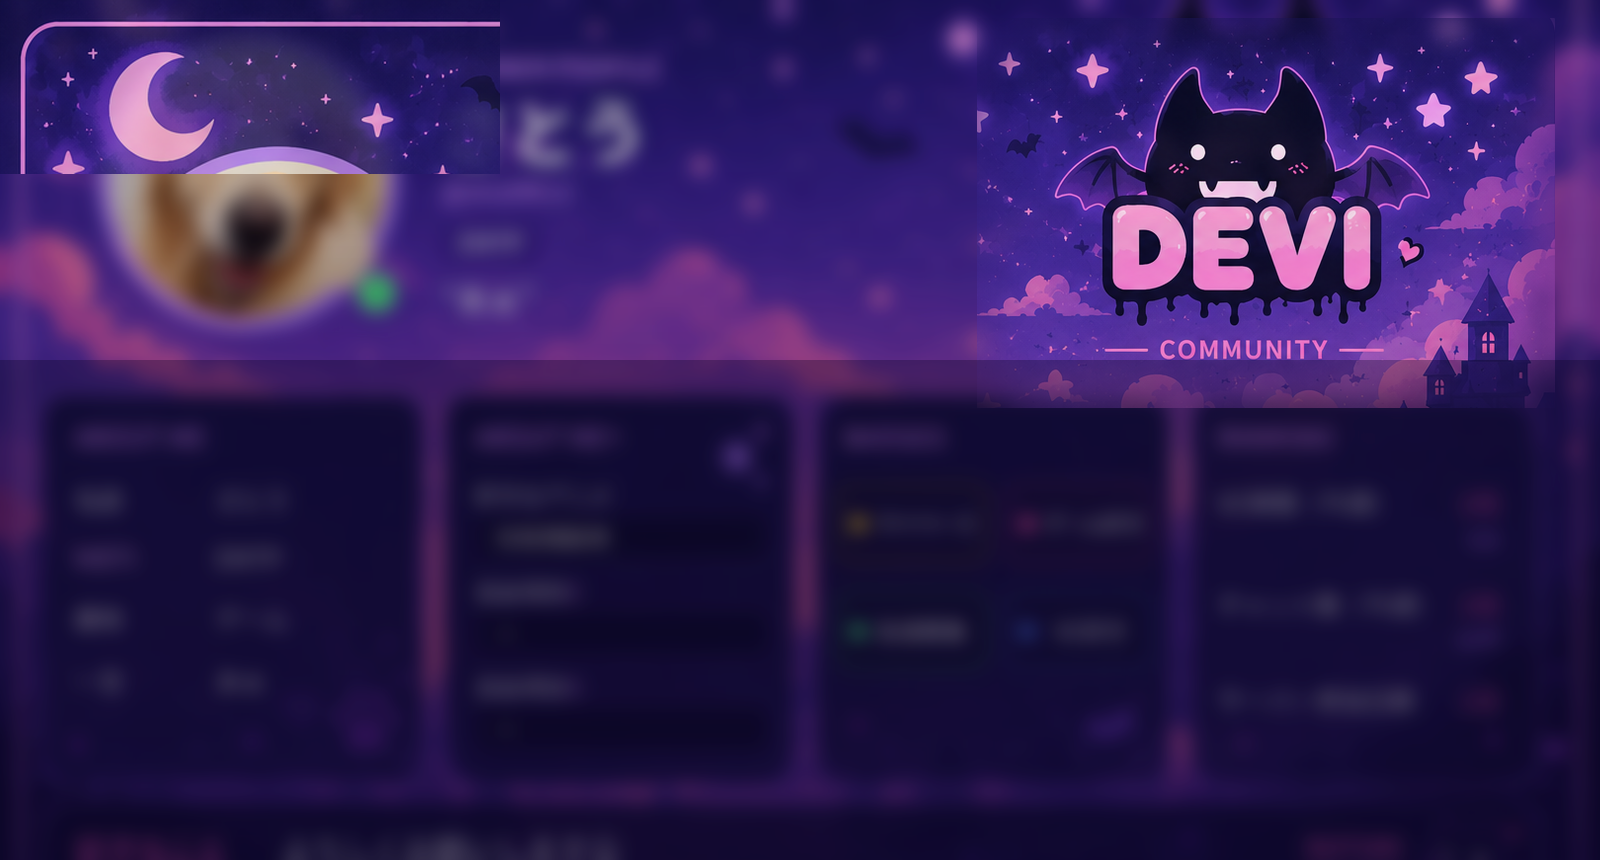
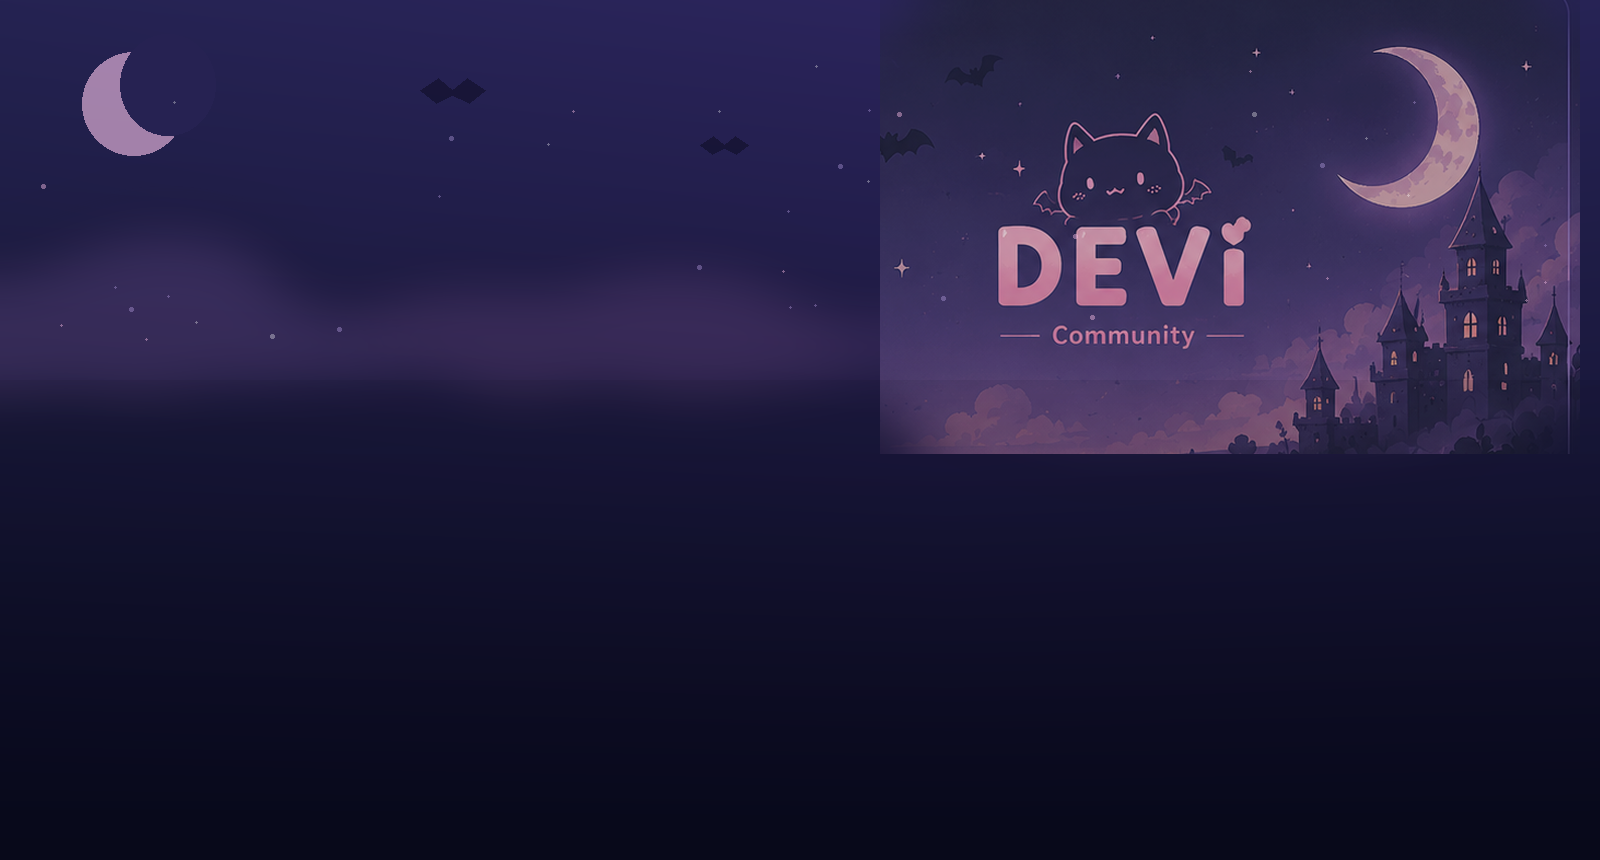
refine devi profile UI

diff --git a/cogs/member_onboarding.py b/cogs/member_onboarding.py
@@ -709,214 +709,147 @@ def _draw_centered_text(draw, box, text, font, fill):
 
 
 async def build_profile_card_file(member, p):
-    """BOTORI用の横長プロフィール画像カードを生成する。"""
-    import random
+    """DEVIの落ち着いた可愛い横長プロフィールカードを生成する。"""
     import re
     from datetime import datetime, timezone
 
     width, height = 1600, 860
-    img = Image.new('RGB', (width, height), '#050b16')
-    draw = ImageDraw.Draw(img)
-
-    # 配色・背景（テーマごとに完全に異なる専用アートを使用）
-    raw_theme_key = (p.get('profile_theme') or 'city').strip()
+    raw_theme_key = (p.get('profile_theme') or 'devi').strip()
     theme_key = THEME_ALIASES.get(raw_theme_key, raw_theme_key)
-    theme = PROFILE_THEMES.get(theme_key, PROFILE_THEMES['city'])
+    theme = PROFILE_THEMES.get(theme_key, PROFILE_THEMES['devi'])
     accent = theme['accent']
-    accent_soft = tuple(max(0, int(c * 0.58)) for c in accent)
-    text_main = (241, 246, 255)
-    text_sub = (159, 180, 216)
-    panel_fill = theme['panel']
-    panel_alt = theme['alt']
+    text_main = (244, 246, 255)
+    text_sub = (178, 187, 220)
     line = theme['line']
 
-    background_path = os.path.join(
-        os.path.dirname(os.path.dirname(__file__)),
-        'assets', 'profile', 'backgrounds', f'{theme_key}.png'
-    )
+    background_path = os.path.join(os.path.dirname(os.path.dirname(__file__)), 'assets', 'profile', 'backgrounds', f'{theme_key}.png')
     try:
         background_src = Image.open(background_path).convert('RGB')
-        background = ImageOps.fit(background_src, (width, height), method=Image.Resampling.LANCZOS, centering=(0.5, 0.48))
-        img.paste(background, (0, 0))
+        img = ImageOps.fit(background_src, (width, height), method=Image.Resampling.LANCZOS, centering=(0.5, 0.5))
     except Exception:
-        # アセット破損時もプロフィール生成自体は止めない
-        for y in range(height):
-            t = y / max(1, height - 1)
-            color = tuple(int(panel_alt[i] * (1 - t) + panel_fill[i] * t) for i in range(3))
-            draw.line((0, y, width, y), fill=color)
+        img = Image.new('RGB', (width, height), '#11132d')
+    draw = ImageDraw.Draw(img)
 
-    # 読みやすさを保つガラス風レイヤー。背景アートは右上・周辺に見える。
+    # ガラスUI。背景を見せるため、一枚の黒板ではなく各カードを独立させる。
     overlay = Image.new('RGBA', (width, height), (0, 0, 0, 0))
     od = ImageDraw.Draw(overlay)
-    od.rounded_rectangle((28, 28, width-28, height-28), radius=34, fill=(2, 7, 18, 28), outline=(*accent, 235), width=3)
-    header_box = (48, 48, width-48, 352)
-    content_box = (48, 370, width-48, 720)
-    footer_box = (48, 735, width-48, 812)
-    od.rounded_rectangle(header_box, radius=26, fill=(*panel_alt, 176), outline=(*line, 220), width=2)
-    od.rounded_rectangle(content_box, radius=24, fill=(*panel_fill, 208), outline=(*line, 235), width=2)
-    od.rounded_rectangle(footer_box, radius=20, fill=(*panel_fill, 214), outline=(*line, 235), width=2)
-    # ヘッダー左側だけ少し暗くし、右側の背景アートを強く残す
-    od.rounded_rectangle((48, 48, 690, 352), radius=26, fill=(0, 4, 12, 78))
+    od.rounded_rectangle((24, 24, width-24, height-24), radius=34, fill=(7, 7, 24, 16), outline=(*accent, 210), width=2)
+    # ヘッダーは左情報部のみ少し濃く、ロゴ側はほぼ背景をそのまま見せる
+    od.rounded_rectangle((42, 45, width-42, 350), radius=28, fill=(9, 8, 29, 45), outline=(*line, 150), width=1)
+    od.rounded_rectangle((42, 45, 700, 350), radius=28, fill=(8, 8, 27, 122))
+    # 4枚の独立カード
+    panels=[(44,374,398,716),(416,374,770,716),(788,374,1142,716),(1160,374,1556,716)]
+    for box in panels:
+        od.rounded_rectangle(box, radius=22, fill=(10, 10, 30, 184), outline=(*line, 195), width=2)
+        # 上辺にほのかな反射
+        od.line((box[0]+24,box[1]+2,box[2]-24,box[1]+2),fill=(255,220,250,48),width=2)
+    od.rounded_rectangle((44,734,1556,816), radius=20, fill=(10, 10, 30, 192), outline=(*line, 190), width=2)
     img = Image.alpha_composite(img.convert('RGBA'), overlay).convert('RGB')
     draw = ImageDraw.Draw(img)
-    # フォント
-    tiny = _find_japanese_font(19)
-    small = _find_japanese_font(23)
-    small_b = _find_japanese_font(23, bold=True)
-    medium = _find_japanese_font(29)
-    medium_b = _find_japanese_font(29, bold=True)
+
+    tiny = _find_japanese_font(18)
+    small = _find_japanese_font(22)
+    small_b = _find_japanese_font(22, bold=True)
     section = _find_japanese_font(25, bold=True)
     name = (p.get('nickname') or member.display_name).strip()
-    name_font = _fit_text(draw, name, 610, 70, 40, bold=True)
+    name_font = _fit_text(draw, name, 520, 68, 40, bold=True)
 
     # アバター
-    avatar_box = (70, 72, 356, 358)
     try:
         avatar_bytes = await member.display_avatar.with_size(512).read()
         avatar = Image.open(io.BytesIO(avatar_bytes)).convert('RGB')
-        avatar = ImageOps.fit(avatar, (260, 260), method=Image.Resampling.LANCZOS)
-        mask = Image.new('L', (260, 260), 0)
-        ImageDraw.Draw(mask).ellipse((0, 0, 259, 259), fill=255)
-        ring_mask = Image.new('L', (286, 286), 0)
-        ImageDraw.Draw(ring_mask).ellipse((0, 0, 285, 285), fill=255)
-        ring = Image.new('RGB', (286, 286), accent)
-        img.paste(ring, (70, 72), ring_mask)
-        img.paste(avatar, (83, 85), mask)
-        draw.ellipse((315, 300, 352, 337), fill=(35, 210, 115), outline=panel_alt, width=5)
+        avatar = ImageOps.fit(avatar, (246, 246), method=Image.Resampling.LANCZOS)
+        mask = Image.new('L', (246, 246), 0); ImageDraw.Draw(mask).ellipse((0,0,245,245),fill=255)
+        ring_mask = Image.new('L',(270,270),0); ImageDraw.Draw(ring_mask).ellipse((0,0,269,269),fill=255)
+        ring = Image.new('RGB',(270,270),(177,142,230))
+        img.paste(ring,(70,70),ring_mask); img.paste(avatar,(82,82),mask)
+        draw.ellipse((307,294,344,331),fill=(66,204,128),outline=(21,17,48),width=5)
     except Exception:
-        draw.ellipse(avatar_box, fill=accent)
-        draw.ellipse((83, 85, 343, 345), fill=(27, 39, 61))
+        draw.ellipse((70,70,340,340),fill=(177,142,230)); draw.ellipse((82,82,328,328),fill=(32,34,71))
 
-    # ヘッダー文字（anchorで縦位置を統一）
-    draw.text((405, 92), 'MEMBER PROFILE', font=small_b, fill=(81, 148, 255), anchor='lm')
-    draw.text((405, 155), name, font=name_font, fill=text_main, anchor='lm')
-    draw.text((410, 208), f'@{member.name}', font=small, fill=(139, 158, 190), anchor='lm')
+    # 左上プロフィール情報。MEMBER PROFILEは控えめ、名前を主役にする。
+    draw.text((390,103),'MEMBER PROFILE',font=small_b,fill=(189,153,231),anchor='lm')
+    draw.text((390,167),name,font=name_font,fill=text_main,anchor='lm')
+    draw.text((393,218),f'@{member.name}',font=small,fill=(157,151,190),anchor='lm')
+    mbti=(p.get('mbti') or '').strip(); badge_text=mbti or '未設定'
+    badge_w=draw.textbbox((0,0),badge_text,font=small_b)[2]+34; badge_box=(393,238,393+badge_w,281)
+    draw.rounded_rectangle(badge_box,radius=12,fill=(55,38,105),outline=(139,104,214),width=2)
+    _draw_centered_text(draw,badge_box,badge_text,small_b,(237,229,255))
+    comment=(p.get('comment') or '').strip(); quote=(comment or '一言はまだ登録されていません').replace('☆','★').replace('✩','★')
+    quote_font=_fit_text(draw,quote,510,30,20)
+    draw.text((390,317),f'“ {quote} ”',font=quote_font,fill=(231,226,244),anchor='lm')
 
-    mbti = (p.get('mbti') or '').strip()
-    badge_text = mbti or '未設定'
-    badge_font = small_b
-    badge_w = draw.textbbox((0, 0), badge_text, font=badge_font)[2] + 34
-    badge_box = (410, 229, 410 + badge_w, 275)
-    draw.rounded_rectangle(badge_box, radius=12, fill=(43, 31, 100), outline=(104, 78, 220), width=2)
-    _draw_centered_text(draw, badge_box, badge_text, badge_font, (226, 220, 255))
+    # セクション見出し
+    panel_x=[70,442,814,1186]
+    titles=['ABOUT ME','ABOUT ME+','BADGES','RANKING']
+    for x,title in zip(panel_x,titles):
+        draw.text((x,414),title,font=section,fill=(196,150,232),anchor='lm')
+        draw.line((x,443,x+150,443),fill=(135,96,170),width=1)
 
-    comment = (p.get('comment') or '').strip()
-    quote = comment or '一言はまだ登録されていません'
-    quote_font = _fit_text(draw, quote, 790, 31, 21)
-    draw.text((405, 315), f'“ {quote} ”', font=quote_font, fill=(224, 232, 246), anchor='lm')
+    hobby=(p.get('hobby') or '').strip()
+    about_rows=[('名前',name),('MBTI',mbti or '—'),('趣味',hobby or '—'),('一言',comment or '—')]
+    for (label,value),cy in zip(about_rows,[487,547,607,667]):
+        draw.text((70,cy),label,font=small_b,fill=text_sub,anchor='lm')
+        value=value.replace('☆','★').replace('✩','★')
+        vf=_fit_text(draw,value,205,23,17)
+        while value and draw.textbbox((0,0),value,font=vf)[2]>205: value=value[:-1]
+        draw.text((200,cy),value or '—',font=vf,fill=text_main,anchor='lm')
 
-    # セクション座標
-    col1_x, col2_x, col3_x, col4_x = 78, 545, 905, 1260
-    top_y = 410
-    for x, title in ((col1_x, 'ABOUT ME'), (col2_x, 'ABOUT ME+'), (col3_x, 'BADGES'), (col4_x, 'RANKING')):
-        draw.text((x, top_y), title, font=section, fill=(78, 145, 255), anchor='lm')
-    for x in (515, 875, 1235):
-        draw.line((x, 392, x, 692), fill=line, width=2)
+    # ABOUT ME+
+    py=470
+    for i in (1,2,3):
+        q=(p.get(f'about_q{i}') or '').strip() or f'自由項目{i}'
+        a=(p.get(f'about_a{i}') or '').strip() or '—'
+        qf=_fit_text(draw,q,280,21,16,bold=True); af=_fit_text(draw,a,270,20,15)
+        draw.text((442,py),q,font=qf,fill=text_sub,anchor='la')
+        box=(442,py+29,744,py+72); draw.rounded_rectangle(box,radius=11,fill=(12,15,38),outline=(68,62,108),width=1)
+        while a and draw.textbbox((0,0),a,font=af)[2]>265: a=a[:-1]
+        draw.text((456,py+51),a or '—',font=af,fill=text_main,anchor='lm'); py+=86
 
-    # ABOUT ME：各行を同じ高さに揃える
-    hobby = (p.get('hobby') or '').strip()
-    about_rows = [('名前', name), ('MBTI', mbti or '—'), ('趣味', hobby or '—'), ('一言', comment or '—')]
-    row_centers = [468, 528, 588, 648]
-    for (label, value), cy in zip(about_rows, row_centers):
-        draw.text((col1_x, cy), label, font=small_b, fill=text_sub, anchor='lm')
-        value_font = _fit_text(draw, value, 285, 24, 18)
-        value_display = value
-        while value_display and draw.textbbox((0, 0), value_display, font=value_font)[2] > 285:
-            value_display = value_display[:-1]
-        if value_display != value:
-            value_display = value_display.rstrip() + '…'
-        draw.text((205, cy), value_display, font=value_font, fill=text_main, anchor='lm')
-
-    # ABOUT ME+：本人が自由に設定できる3つの質問と回答
-    plus_rows = []
-    for index in (1, 2, 3):
-        question = (p.get(f'about_q{index}') or '').strip()
-        answer = (p.get(f'about_a{index}') or '').strip()
-        plus_rows.append((question or f'自由項目{index}', answer or '—'))
-    py_plus = 450
-    for question, answer in plus_rows:
-        q_font = _fit_text(draw, question, 285, 22, 17, bold=True)
-        a_font = _fit_text(draw, answer, 285, 21, 16)
-        draw.text((col2_x, py_plus), question, font=q_font, fill=text_sub, anchor='la')
-        box = (col2_x, py_plus + 29, 835, py_plus + 73)
-        draw.rounded_rectangle(box, radius=11, fill=(11, 22, 38), outline=(35, 58, 88), width=2)
-        answer_display = answer
-        while answer_display and draw.textbbox((0,0), answer_display, font=a_font)[2] > 255:
-            answer_display = answer_display[:-1]
-        if answer_display != answer:
-            answer_display = answer_display.rstrip() + '…'
-        draw.text((col2_x + 14, py_plus + 51), answer_display, font=a_font, fill=text_main, anchor='lm')
-        py_plus += 86
-
-    # 週間アクティビティを取得
-    stats = _profile_weekly_stats(member.guild.id, member.id)
-    vc_total = stats['vc_total']
-    chat_total = stats['chat_total']
-    vc_rank = stats['vc_rank']
-    chat_rank = stats['chat_rank']
-
-    # BADGES：本人が選んだ4つを2列×2段で表示
-    selected_badges = []
+    stats=_profile_weekly_stats(member.guild.id,member.id)
+    selected=[]
     for key in _badge_keys(p):
-        info = BADGE_LOOKUP[key]
-        selected_badges.append((info['label'], info['color']))
-    custom_badge = (p.get('custom_badge') or '').strip()
-    if custom_badge:
-        selected_badges.append((custom_badge, (130, 145, 170)))
-    selected_badges = selected_badges[:4]
-    while len(selected_badges) < 4:
-        selected_badges.append(('未設定', (65, 78, 100)))
+        info=BADGE_LOOKUP[key]; selected.append((info['label'],info['color']))
+    custom=(p.get('custom_badge') or '').strip()
+    if custom: selected.append((custom,(130,145,170)))
+    selected=selected[:4]
+    while len(selected)<4: selected.append(('未設定',(72,76,104)))
+    boxes=[(814,478,957,554),(970,478,1113,554),(814,570,957,646),(970,570,1113,646)]
+    for (label,color),box in zip(selected,boxes):
+        fill=tuple(max(14,int(c*.22)) for c in color)
+        draw.rounded_rectangle(box,radius=16,fill=fill,outline=color,width=2)
+        # small icon-like diamond instead of loud sparkle
+        cx=box[0]+23; cy=(box[1]+box[3])//2
+        draw.ellipse((cx-7,cy-7,cx+7,cy+7),fill=color)
+        maxw=box[2]-box[0]-48; bf=_fit_text(draw,label,maxw,20,15,bold=True)
+        draw.text((box[0]+42,cy),label,font=bf,fill=text_main,anchor='lm')
 
-    badge_boxes = [
-        (col3_x, 452, 1044, 528), (1055, 452, 1195, 528),
-        (col3_x, 544, 1044, 620), (1055, 544, 1195, 620),
-    ]
-    for (label, color), box in zip(selected_badges, badge_boxes):
-        fill = tuple(max(10, int(c * 0.22)) for c in color)
-        draw.rounded_rectangle(box, radius=15, fill=fill, outline=color, width=2)
-        dot_x = box[0] + 18
-        dot_y = (box[1] + box[3]) // 2
-        draw.ellipse((dot_x - 7, dot_y - 7, dot_x + 7, dot_y + 7), fill=color)
-        max_w = box[2] - box[0] - 52
-        badge_label_font = _fit_text(draw, label, max_w, 22, 16, bold=True)
-        display = label
-        while display and draw.textbbox((0, 0), display, font=badge_label_font)[2] > max_w:
-            display = display[:-1]
-        if display != label:
-            display = display.rstrip() + '…'
-        draw.text((box[0] + 38, dot_y), display, font=badge_label_font, fill=text_main, anchor='lm')
+    joined_days=0
+    if getattr(member,'joined_at',None): joined_days=max(1,(datetime.now(timezone.utc)-member.joined_at).days+1)
+    ranks=[('VC時間（今週）',f"{stats['vc_rank']}位" if stats['vc_rank'] else '—',_format_profile_vc(stats['vc_total'])),('チャット数（今週）',f"{stats['chat_rank']}位" if stats['chat_rank'] else '—',f"{stats['chat_total']:,}件"),('サーバー参加日数',f'{joined_days}日' if joined_days else '—','')]
+    for (label,val,detail),cy in zip(ranks,[492,582,672]):
+        draw.text((1186,cy),label,font=small,fill=(230,229,243),anchor='lm')
+        color=(103,171,255) if 'VC' in label else ((247,105,156) if 'チャット' in label else (91,210,148))
+        draw.text((1518,cy),val,font=small_b,fill=color,anchor='rm')
+        if detail: draw.text((1518,cy+28),detail,font=tiny,fill=text_sub,anchor='rm')
 
-    # RANKING：既存activity_logから実数と順位を表示
-    joined_days = 0
-    if getattr(member, 'joined_at', None):
-        now = datetime.now(timezone.utc)
-        joined_days = max(1, (now - member.joined_at).days + 1)
-    rank_rows = [
-        ('VC時間（今週）', f'{vc_rank}位' if vc_rank else '—', _format_profile_vc(vc_total)),
-        ('チャット数（今週）', f'{chat_rank}位' if chat_rank else '—', f'{chat_total:,}件'),
-        ('サーバー参加日数', f'{joined_days}日' if joined_days else '—', ''),
-    ]
-    ry = 470
-    for label, rank_value, detail in rank_rows:
-        draw.text((col4_x, ry), label, font=small, fill=(219, 227, 242), anchor='lm')
-        color = (68, 160, 255) if 'VC' in label else ((255, 91, 121) if 'チャット' in label else (81, 215, 145))
-        draw.text((1510, ry), rank_value, font=small_b, fill=color, anchor='rm')
-        if detail:
-            draw.text((1510, ry + 30), detail, font=tiny, fill=text_sub, anchor='rm')
-        ry += 83
+    # フッター：好きなこと＋控えめなDEVIブランド
+    draw.text((70,775),'好きなこと',font=section,fill=(232,130,194),anchor='lm')
+    free=((p.get('free_text') or '').strip() or hobby or '—').replace('☆','★').replace('✩','★')
+    ff=_fit_text(draw,free,900,27,18); draw.text((250,775),free,font=ff,fill=text_main,anchor='lm')
+    # 小さな雑描き風デビちゃん（簡単な線画）
+    mx,my=1408,755
+    draw.ellipse((mx,my,mx+62,my+48),fill=(23,20,46),outline=(213,126,190),width=2)
+    draw.polygon([(mx+8,my+8),(mx+18,my-6),(mx+26,my+10)],fill=(23,20,46),outline=(213,126,190))
+    draw.polygon([(mx+36,my+10),(mx+46,my-6),(mx+55,my+9)],fill=(23,20,46),outline=(213,126,190))
+    draw.ellipse((mx+17,my+20,mx+21,my+24),fill=(245,210,235))
+    draw.ellipse((mx+41,my+20,mx+45,my+24),fill=(245,210,235))
+    draw.arc((mx+24,my+22,mx+38,my+34),0,180,fill=(231,137,198),width=2)
+    draw.text((1515,766),'DEVI',font=small_b,fill=(231,137,198),anchor='rm')
+    draw.text((1515,792),'MEMBER PROFILE',font=tiny,fill=(133,119,174),anchor='rm')
 
-    # 下部：好きなこと + BOTORIロゴ文字
-    draw.text((78, 773), '好きなこと', font=section, fill=(78, 145, 255), anchor='lm')
-    hobby_display = (p.get('free_text') or '').strip() or hobby or '—'
-    hobby_font = _fit_text(draw, hobby_display, 1020, 28, 19)
-    draw.text((260, 773), hobby_display, font=hobby_font, fill=text_main, anchor='lm')
-    draw.text((1485, 773), 'BOTORI', font=small_b, fill=(91, 137, 220), anchor='rm')
-    draw.text((1485, 797), 'MEMBER PROFILE', font=tiny, fill=(72, 101, 153), anchor='rm')
-
-    out = io.BytesIO()
-    img.save(out, format='PNG', optimize=True)
-    out.seek(0)
-    return discord.File(out, filename=f'profile_{member.id}.png')
+    out=io.BytesIO(); img.save(out,format='PNG',optimize=True); out.seek(0)
+    return discord.File(out,filename=f'profile_{member.id}.png')
 
 
 class ProfileCardView(discord.ui.View):

diff --git a/assets/profile/README.md b/assets/profile/README.md
@@ -1,13 +1,5 @@
-# Profile background assets
+# Profile assets
 
-プロフィール画像の背景は `assets/profile/backgrounds/<theme>.png` を読み込みます。
-
-- 推奨サイズ: 1600 x 860 以上
-- 文字・ロゴは背景画像に入れない
-- UIが重なる中央部は暗め、周辺に主役となる景色を置く
-- 画像は縦横比を維持したまま自動クロップされます
-
-## DEVI
-
-`backgrounds/devi.png` は実際にBOTが読み込む加工済み素材です。
-`backgrounds/source/devi_source.png` は元の高解像度素材です。
+`backgrounds/devi.png` は落ち着いた紫の夜空・月・城・DEVIロゴを使ったプロフィール背景です。
+プロフィールUIは `cogs/member_onboarding.py` が上から描画します。
+背景はUIを含まない素材として管理してください。